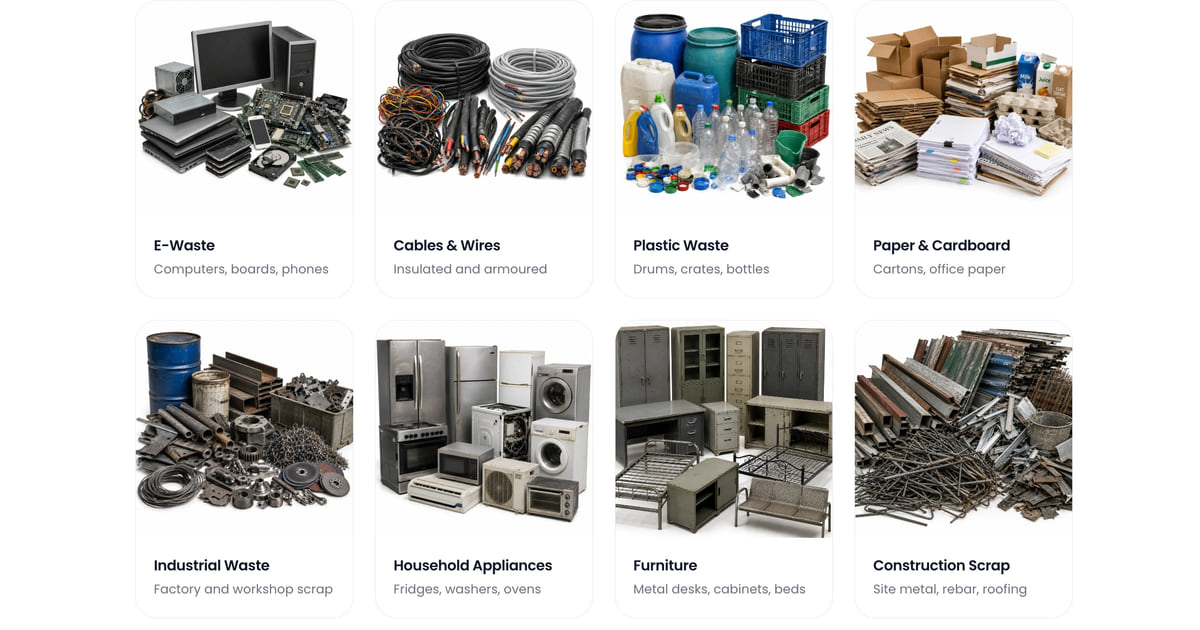
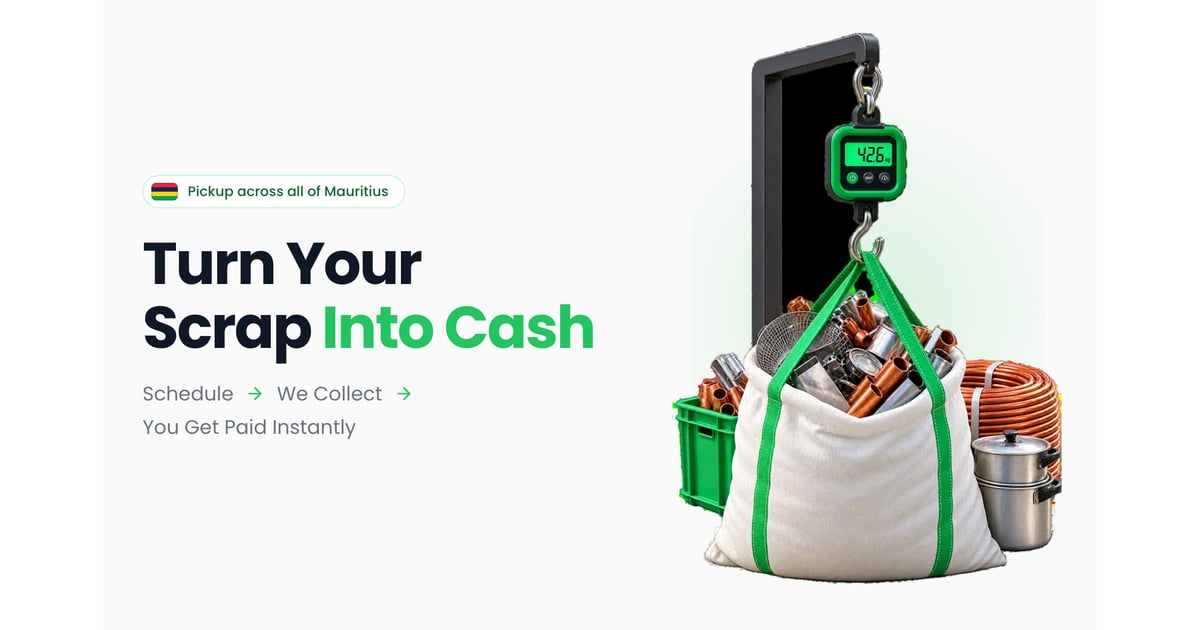
Refresh OG share card and fix hero pickup form overflow on iOS.
Ship the new branded 1200x630 preview image and keep the phone field from clipping past the viewport on narrow screens.

diff --git a/components/sections/PickupForm.tsx b/components/sections/PickupForm.tsx
@@ -35,7 +35,7 @@ export const PickupForm = ({ className }: { className?: string }) => {
   };
 
   return (
-    <div className={cn("mt-9 w-full max-w-xl", className)}>
+    <div className={cn("mt-9 w-full min-w-0 max-w-xl", className)}>
       <label
         htmlFor={inputId}
         className="block text-center text-[0.9375rem] font-semibold text-brand-700 lg:text-left"
@@ -43,14 +43,19 @@ export const PickupForm = ({ className }: { className?: string }) => {
         Book a free pickup
       </label>
 
-      <div className="mt-3 rounded-full bg-brand-100/70 p-2">
-        <div className="rounded-full bg-brand-200/60 p-1.5">
+      {/* min-w-0 on every nested flex/block level: iOS inputs have a large
+          intrinsic min-width that otherwise blows past the viewport, and the
+          hero's items-center + overflow-hidden then clips the left side. */}
+      <div className="mt-3 w-full min-w-0 rounded-full bg-brand-100/70 p-1.5 sm:p-2">
+        <div className="w-full min-w-0 rounded-full bg-brand-200/60 p-1 sm:p-1.5">
           <form
             onSubmit={handleSubmit}
             noValidate
-            className="flex items-center gap-2.5 rounded-full bg-white py-2 pl-4 pr-2 ring-1 ring-brand-100 sm:gap-3 sm:pl-5"
+            className="flex w-full min-w-0 items-center gap-2 rounded-full bg-white py-1.5 pl-3.5 pr-1.5 ring-1 ring-brand-100 sm:gap-3 sm:py-2 sm:pl-5 sm:pr-2"
           >
-            <span className="text-[0.9375rem] font-medium text-muted">+230</span>
+            <span className="shrink-0 text-[0.9375rem] font-medium text-muted">
+              +230
+            </span>
             <span aria-hidden className="h-6 w-px shrink-0 bg-line" />
 
             <input
@@ -61,19 +66,20 @@ export const PickupForm = ({ className }: { className?: string }) => {
               autoComplete="tel"
               placeholder="Enter mobile number"
               value={phone}
+              size={1}
               onChange={(event) => {
                 setPhone(event.target.value);
                 if (error) setError(null);
               }}
               aria-invalid={Boolean(error)}
               aria-describedby={error ? errorId : undefined}
-              className="min-w-0 flex-1 bg-transparent py-2.5 text-[0.9375rem] text-ink outline-none placeholder:text-muted sm:text-base"
+              className="w-full min-w-0 flex-1 bg-transparent py-2.5 text-[0.9375rem] text-ink outline-none placeholder:text-muted sm:text-base"
             />
 
             <button
               type="submit"
               aria-label="Request a pickup on WhatsApp"
-              className="grid size-12 shrink-0 place-items-center rounded-full bg-brand-700 text-white transition duration-200 ease-soft hover:bg-brand-800 active:scale-95"
+              className="grid size-11 shrink-0 place-items-center rounded-full bg-brand-700 text-white transition duration-200 ease-soft hover:bg-brand-800 active:scale-95 sm:size-12"
             >
               <ArrowRight className="size-5" strokeWidth={2.2} />
             </button>

diff --git a/components/sections/Hero.tsx b/components/sections/Hero.tsx
@@ -13,7 +13,7 @@ export const Hero = () => (
   <section id="top" className="relative overflow-hidden bg-canvas">
     <Container className="relative">
       <div className="grid items-center gap-10 pb-16 pt-12 md:pb-20 md:pt-16 lg:grid-cols-[1.05fr_0.95fr] lg:gap-12 lg:pb-24 lg:pt-20">
-        <div className="flex flex-col items-center text-center lg:items-start lg:text-left">
+        <div className="flex min-w-0 flex-col items-center text-center lg:items-start lg:text-left">
           <span className="inline-flex animate-fade-in items-center gap-2.5 rounded-full border border-brand-200 bg-white py-1.5 pl-2 pr-4 text-[0.8125rem] font-medium text-brand-800 sm:text-sm">
             <MauritiusFlag className="h-[1.125rem] w-[1.6875rem] shrink-0 rounded-[0.3rem]" />
             {CONTACT.coverage}
@@ -23,7 +23,7 @@ export const Hero = () => (
             Turn Your Scrap <span className="text-brand-500">Into Cash</span>
           </h1>
 
-          <p className="mt-5 flex flex-wrap items-center justify-center gap-x-3 gap-y-1 text-[1.0625rem] text-muted md:text-[1.25rem] lg:justify-start">
+          <p className="mt-5 flex max-w-full flex-wrap items-center justify-center gap-x-2.5 gap-y-1 text-[1.0625rem] text-muted md:gap-x-3 md:text-[1.25rem] lg:justify-start">
             <span>Schedule</span>
             <ArrowRight aria-hidden className="size-5 shrink-0 text-brand-500" />
             <span>We Collect</span>
@@ -31,9 +31,9 @@ export const Hero = () => (
             <span>You Get Paid Instantly</span>
           </p>
 
-          <PickupForm className="lg:mx-0" />
+          <PickupForm className="self-stretch sm:self-center lg:self-start" />
 
-          <div className="mt-6 flex w-full flex-col items-center gap-3 sm:w-auto sm:flex-row sm:justify-center lg:justify-start">
+          <div className="mt-6 flex w-full min-w-0 flex-col items-center gap-3 sm:w-auto sm:flex-row sm:justify-center lg:justify-start">
             <Button
               href={whatsappLink(WHATSAPP_MESSAGES.general)}
               size="lg"

diff --git a/app/layout.tsx b/app/layout.tsx
@@ -14,8 +14,8 @@ const poppins = Poppins({
 });
 
 /* WhatsApp only renders a large preview for images it can fetch quickly, so
-   this card is kept at 1200x630 and well under 300 KB. Regenerate with
-   `node scripts/build-share-image.mjs` after replacing the source screenshot. */
+   this card is kept at 1200x630 and well under 300 KB. Replace
+   `assets/og-source.png` then run `node scripts/build-share-image.mjs`. */
 const SHARE_IMAGE = {
   url: "/og-image.jpg",
   width: 1200,
